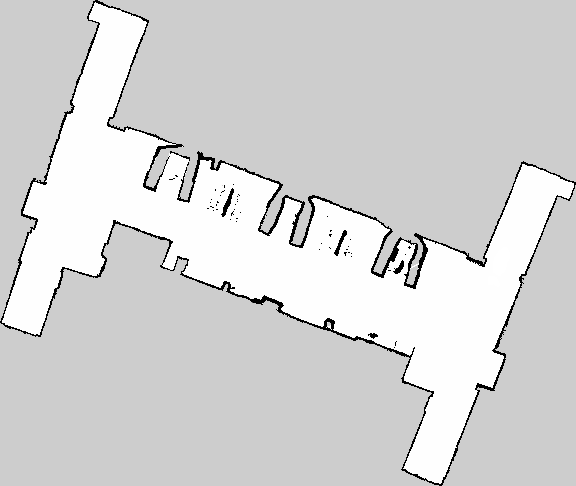
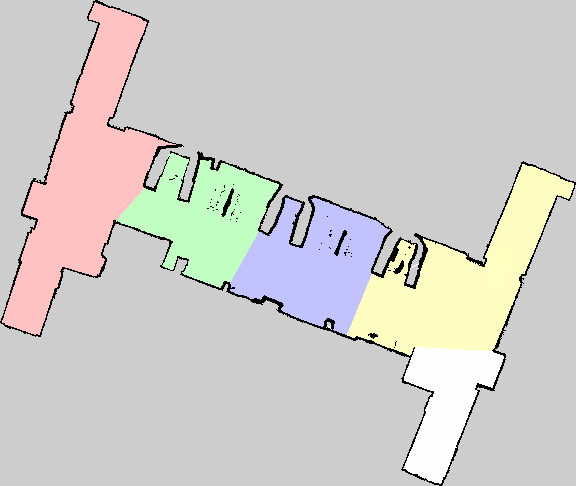
Create pages for viewing all orders and one specific order. Populate the one order page with data from the API. Refactor map code out into an ES module which is imported by systemStatus and viewOrder scripts. Create the map divided into zones and a zones.json file to define the name and coordinates 

Changed region(s): [[0.0, 0.0, 1.0, 0.7407]]

diff --git a/public/javascripts/systemStatus.js b/public/javascripts/systemStatus.js
@@ -1,38 +1,4 @@
-const mapCanvas = $('#map-canvas').get(0);
-const mapContext = mapCanvas.getContext('2d');
-
-mapContext.fillStyle = 'red';
-const robotSize = 10;
-let lastLocation;
-
-/**
- * Transform coordinate object of form: { x: ?, y: ? }, to
- * pixel x and y values to draw on the map
- */
-function coordsToPixels(coordObj) {
-  return {
-    x: mapCanvas.width / 2 - coordObj.x / 0.05,
-    y: coordObj.y / 0.05 + mapCanvas.height / 2,
-  };
-}
-
-function updateMap(robotLocation) {
-  if (robotLocation) {
-    const rx = robotLocation.x;
-    const ry = robotLocation.y;
-    if (lastLocation && rx === lastLocation.x && ry === lastLocation.y) {
-      console.log('Skip draw (no change)');
-    } else {
-      console.log('Draw');
-      const pixelsObj = coordsToPixels(robotLocation);
-      mapContext.clearRect(0, 0, mapCanvas.width, mapCanvas.height);
-      mapContext.fillRect(pixelsObj.x, pixelsObj.y, robotSize, robotSize);
-      lastLocation = robotLocation;
-    }
-  } else {
-    console.log('NO ROBOT LOCATION');
-  }
-}
+import Map from './map.js';
 
 function updateOrderQueue(robotOrderQueue) {
   // Clear the table
@@ -69,20 +35,23 @@ function updateOrderQueue(robotOrderQueue) {
   });
 }
 
-function update() {
+function update(map) {
   $.get('/api/robot', (robotData) => {
     requestAnimationFrame(() => {
-      updateMap(robotData.location);
+      map.update(robotData.location);
       updateOrderQueue(robotData.orderQueue);
     });
   });
 }
 
-update();
-setInterval(() => {
-  if (lastLocation && $('#auto-update-checkbox').is(':checked')) {
-    update();
-  } else {
-    console.log('Auto-update not checked');
-  }
-}, 10000);
+$(document).ready(() => {
+  const map = new Map($('#map-canvas'));
+  update(map);
+  setInterval(() => {
+    if ($('#auto-update-checkbox').is(':checked')) {
+      update(map);
+    } else {
+      console.log('Auto-update not checked');
+    }
+  }, 5000);
+});

diff --git a/public/javascripts/map.js b/public/javascripts/map.js
@@ -1,0 +1,62 @@
+export default class Map {
+  constructor(canvasObject) {
+    this.mapCanvas = canvasObject.get(0);
+    this.mapContext = this.mapCanvas.getContext('2d');
+    this.robotSize = 10;
+    this.lastLocation = {};
+    this.getZones();
+  }
+
+  getZones() {
+    $.get('/javascripts/zones.json', (zones) => {
+      this.zoneLocations = zones;
+    });
+  }
+
+  /**
+   * Transform coordinate object of form: { x: ?, y: ? }, to
+   * pixel x and y values to draw on the map
+   */
+  coordsToPixels(coordObj) {
+    return {
+      x: Math.round(this.mapCanvas.width / 2 - coordObj.x / 0.05),
+      y: Math.round(coordObj.y / 0.05 + this.mapCanvas.height / 2),
+    };
+  }
+
+  update(robotLocation) {
+    if (robotLocation) {
+      const rx = robotLocation.x;
+      const ry = robotLocation.y;
+      if (this.lastLocation && rx === this.lastLocation.x && ry === this.lastLocation.y) {
+        console.log('Skip draw (no change)');
+      } else {
+        console.log('Draw');
+        const pixelsObj = this.coordsToPixels(robotLocation);
+        const robotOffset = this.robotSize / 2;
+        this.mapContext.clearRect(0, 0, this.mapCanvas.width, this.mapCanvas.height);
+        this.mapContext.fillStyle = 'red';
+        this.mapContext.fillRect(
+          pixelsObj.x - robotOffset,
+          pixelsObj.y - robotOffset,
+          this.robotSize,
+          this.robotSize,
+        );
+        this.mapContext.fillStyle = 'blue';
+        this.zoneLocations.forEach((zone) => {
+          const zonePixels = this.coordsToPixels(zone);
+          console.log(zonePixels);
+          this.mapContext.fillRect(
+            zonePixels.x,
+            zonePixels.y,
+            5,
+            5,
+          );
+        });
+        this.lastLocation = robotLocation;
+      }
+    } else {
+      console.log('NO ROBOT LOCATION');
+    }
+  }
+}

diff --git a/public/javascripts/viewOrder.js b/public/javascripts/viewOrder.js
@@ -1,0 +1,37 @@
+import Map from './map.js';
+
+function updateOrderTable(orderData) {
+  $('#user-cell').text(orderData.user);
+  $('#zone-cell').text(orderData.zone);
+  $('#items-cell > ul').empty();
+  orderData.items.forEach((item) => {
+    $('#items-cell > ul').append($('<li>').text(item));
+  });
+  $('#status-cell').text(orderData.status);
+  $('#loading-text').addClass('d-none');
+  $('#order-table').removeClass('d-none');
+}
+
+function update(map, orderId) {
+  $.get('/api/robot', (robotData) => {
+    requestAnimationFrame(() => {
+      map.update(robotData.location);
+    });
+  });
+  $.get(`/api/orders/${orderId}`, (orderData) => {
+    updateOrderTable(orderData);
+  });
+}
+
+$(document).ready(() => {
+  const map = new Map($('#map-canvas'));
+  const orderId = $('#id-cell').text();
+  update(map, orderId);
+  setInterval(() => {
+    if ($('#auto-update-checkbox').is(':checked')) {
+      update(map, orderId);
+    } else {
+      console.log('Auto-update not checked');
+    }
+  }, 5000);
+});

diff --git a/public/javascripts/placeOrder.js b/public/javascripts/placeOrder.js
@@ -68,8 +68,7 @@ function bindFormSubmit(items) {
       dataType: 'json',
       success: (res) => {
         // If order is placed successfully, redirect user to view it
-        // TODO: redirect to view for order once implemented
-        window.location.replace(`/api/orders/${res._id}`);
+        window.location.replace(`/order/view/${res._id}`);
       },
     });
   });

diff --git a/routes/views.js b/routes/views.js
@@ -11,4 +11,12 @@ router.get('/order', (_req, res) => {
   res.render('placeOrder');
 });
 
+router.get('/order/view', (_req, res) => {
+  res.render('allOrders');
+});
+
+router.get('/order/view/:orderId', (req, res) => {
+  res.render('order', { orderId: req.params.orderId });
+});
+
 module.exports = router;

diff --git a/public/stylesheets/style.css b/public/stylesheets/style.css
@@ -23,7 +23,7 @@
   margin-bottom: 0;
 }
 
-#order-queue-table-body ul {
+table ul {
   padding-left: 1rem;
   margin-bottom: 0;
 }
